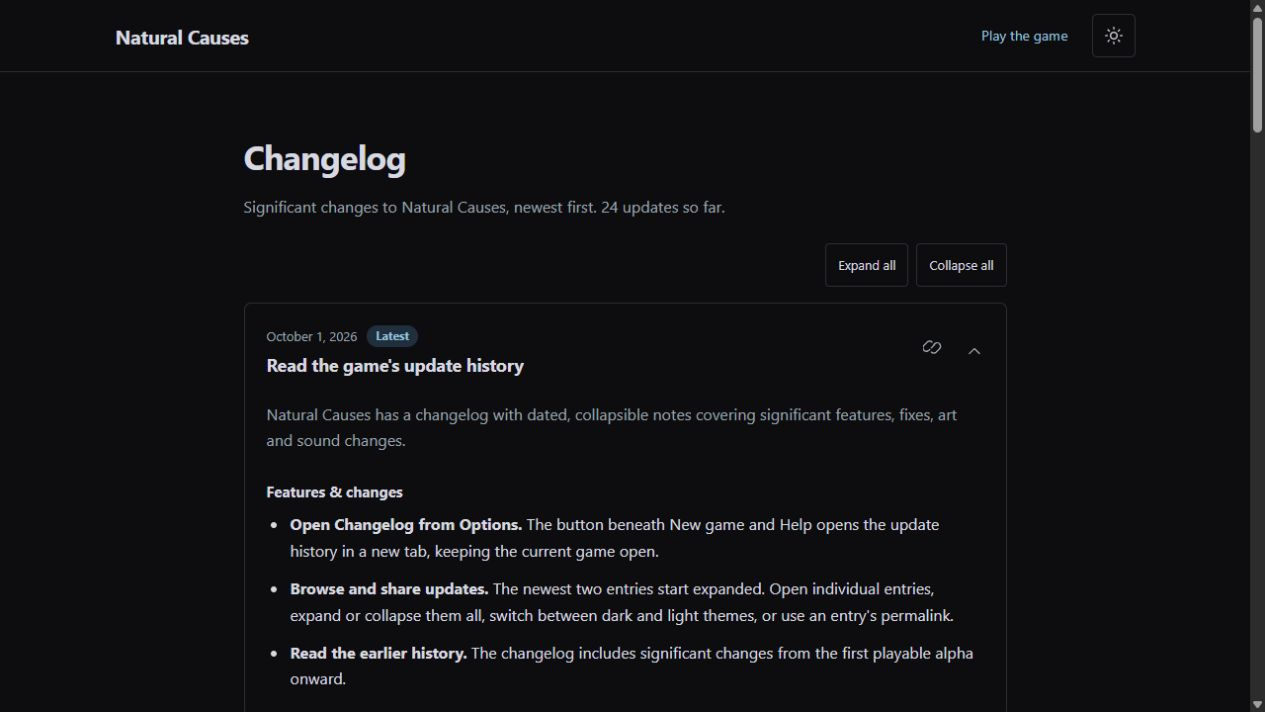
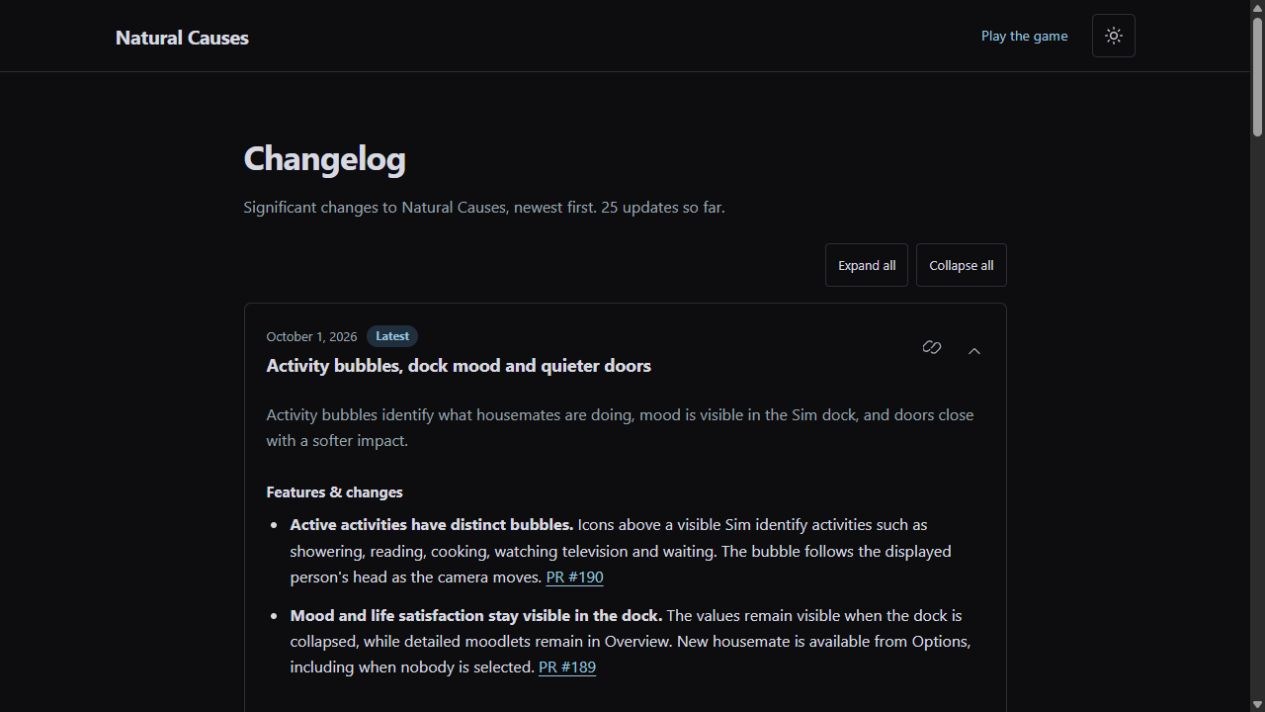
Record final changelog and Options verification

diff --git a/docs/assets/review-evidence/changelog/README.md b/docs/assets/review-evidence/changelog/README.md
@@ -1,16 +1,24 @@
 # Changelog verification
 
-The change adds a static public update history, a Changelog link below New game and Help in Options, and mirrored agent guidance. The page is generated from 24 dated Markdown entries, including historical backfill through PR #187. Pending bed assignment, Edit Sims, domestic-meal work and held audio work are excluded.
+The change adds a static public update history, a Changelog link below New game and Help in Options, and mirrored agent guidance. The page is generated from 25 dated Markdown entries, including historical backfill through PR #190. Pending bed assignment, Edit Sims, domestic-meal work and held audio work are excluded.
 
 ## Automated checks
 
 1. `node --test scripts/build-changelog.test.mjs`: seven tests pass. They cover source additions, edits and deletions, ordering, initial disclosures, escaped source HTML, HTTPS links, malformed entries, literal template markers and the CLI's generated artifact.
 2. `python -B -m unittest discover -s .github/scripts -p 'test_*.py'`: 23 tests pass. Real temporary Git histories prove that new notes require publication, an untested game change still requires game CI, and unrelated documentation after tested notes can skip publication.
 3. `npm --prefix web run typecheck`: passes.
-4. `npm --prefix web test -- --maxWorkers=1`: all 1,715 tests across 114 files pass, including Options and the mirrored skill inventory.
+4. `npm --prefix web test -- --maxWorkers=1`: all 1,753 tests across 115 files pass, including Options and the mirrored skill inventory.
 5. `wasm-pack build crates/terri-wasm --target web --out-dir ../../web/src/wasm`: passes.
-6. `npm --prefix web run build`: passes. The output includes `dist/index.html`, the WASM package and `dist/changelog/index.html` (about 56 kB before compression).
+6. `npm --prefix web run build`: passes. The output includes `dist/index.html`, the WASM package and `dist/changelog/index.html` (57.95 kB before compression).
 7. `python check-doc-ids.py` and `git diff --check`: pass.
 8. Skill frontmatter validation passes for `.agents/skills/maintain-changelog`. The other discovery copy is byte-identical.
+9. `cargo test --workspace -j 1 --quiet`: all 1,256 native tests pass after integrating main through PR #190. `cargo fmt --all -- --check` and `cargo clippy --workspace --all-targets -j 1 -- -D warnings` pass.
+10. The seven asset suites pass. After integrating PR #190, the sprite suite passes all 122 tests and `python assets/sprites/gen/build.py --check` confirms the 1,392-sprite atlas matches its generator.
+
+## Browser and fault checks
+
+1. The desktop and 390-pixel phone screenshots show the final 25-entry build with two entries initially open and no horizontal overflow. The earlier 320-pixel layout check also passed. Keyboard disclosure controls, Expand all, Collapse all, the theme preference and permalink reload were checked in the browser.
+2. Options places the full-width Changelog link beneath both New game and Help. It uses the local project's `/changelog/` URL and opens a new tab. The game was checked on a disposable localhost origin to avoid saved households; task-owned game tabs and the preview server were closed afterward.
+3. `faults.json` records five deliberate fault checks. Removing the published-note classification, using the game baseline for notes, removing HTML escaping, ignoring the changelog CI job or ignoring notes in the stale-artifact guard each causes the intended assertion to fail. Original bytes were restored and the tests passed afterward.
 
 The full remote Rust mutation sweep is additional coverage and is not represented by these local checks. Live Pages publication requires the implementation on main, successful main CI and an executed deployment step.
